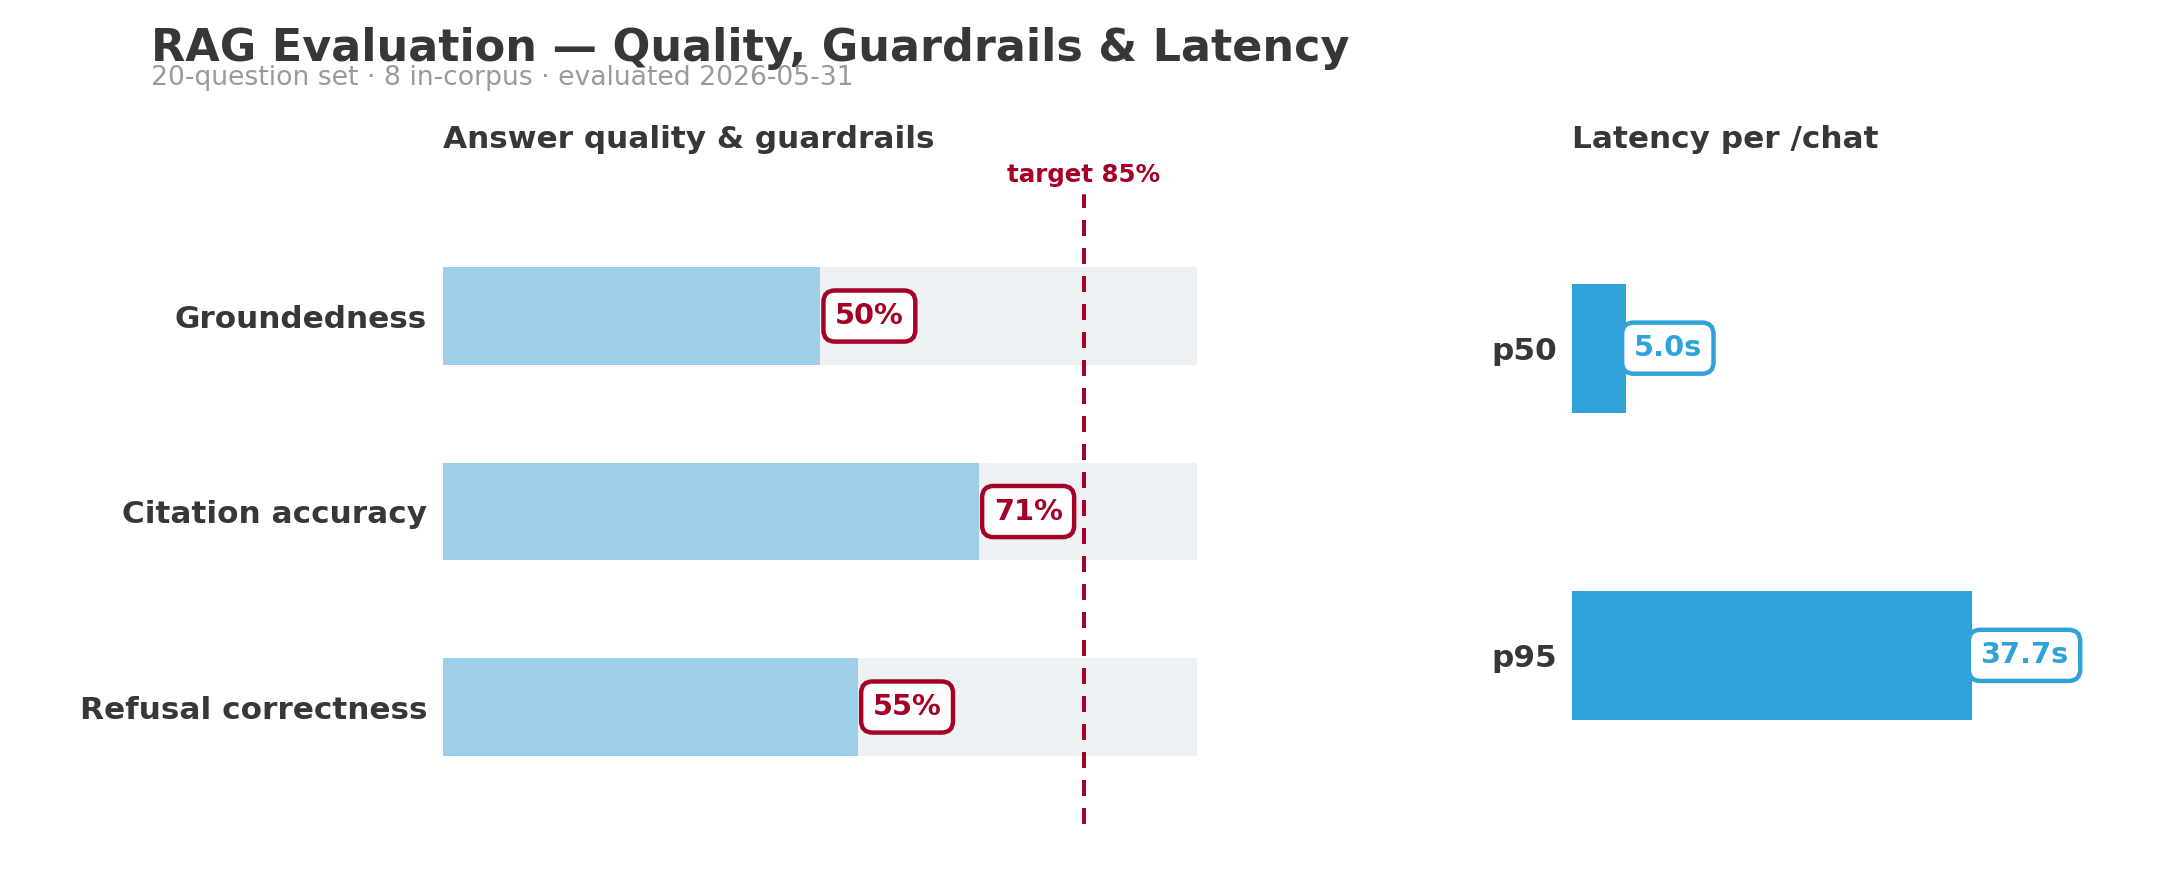
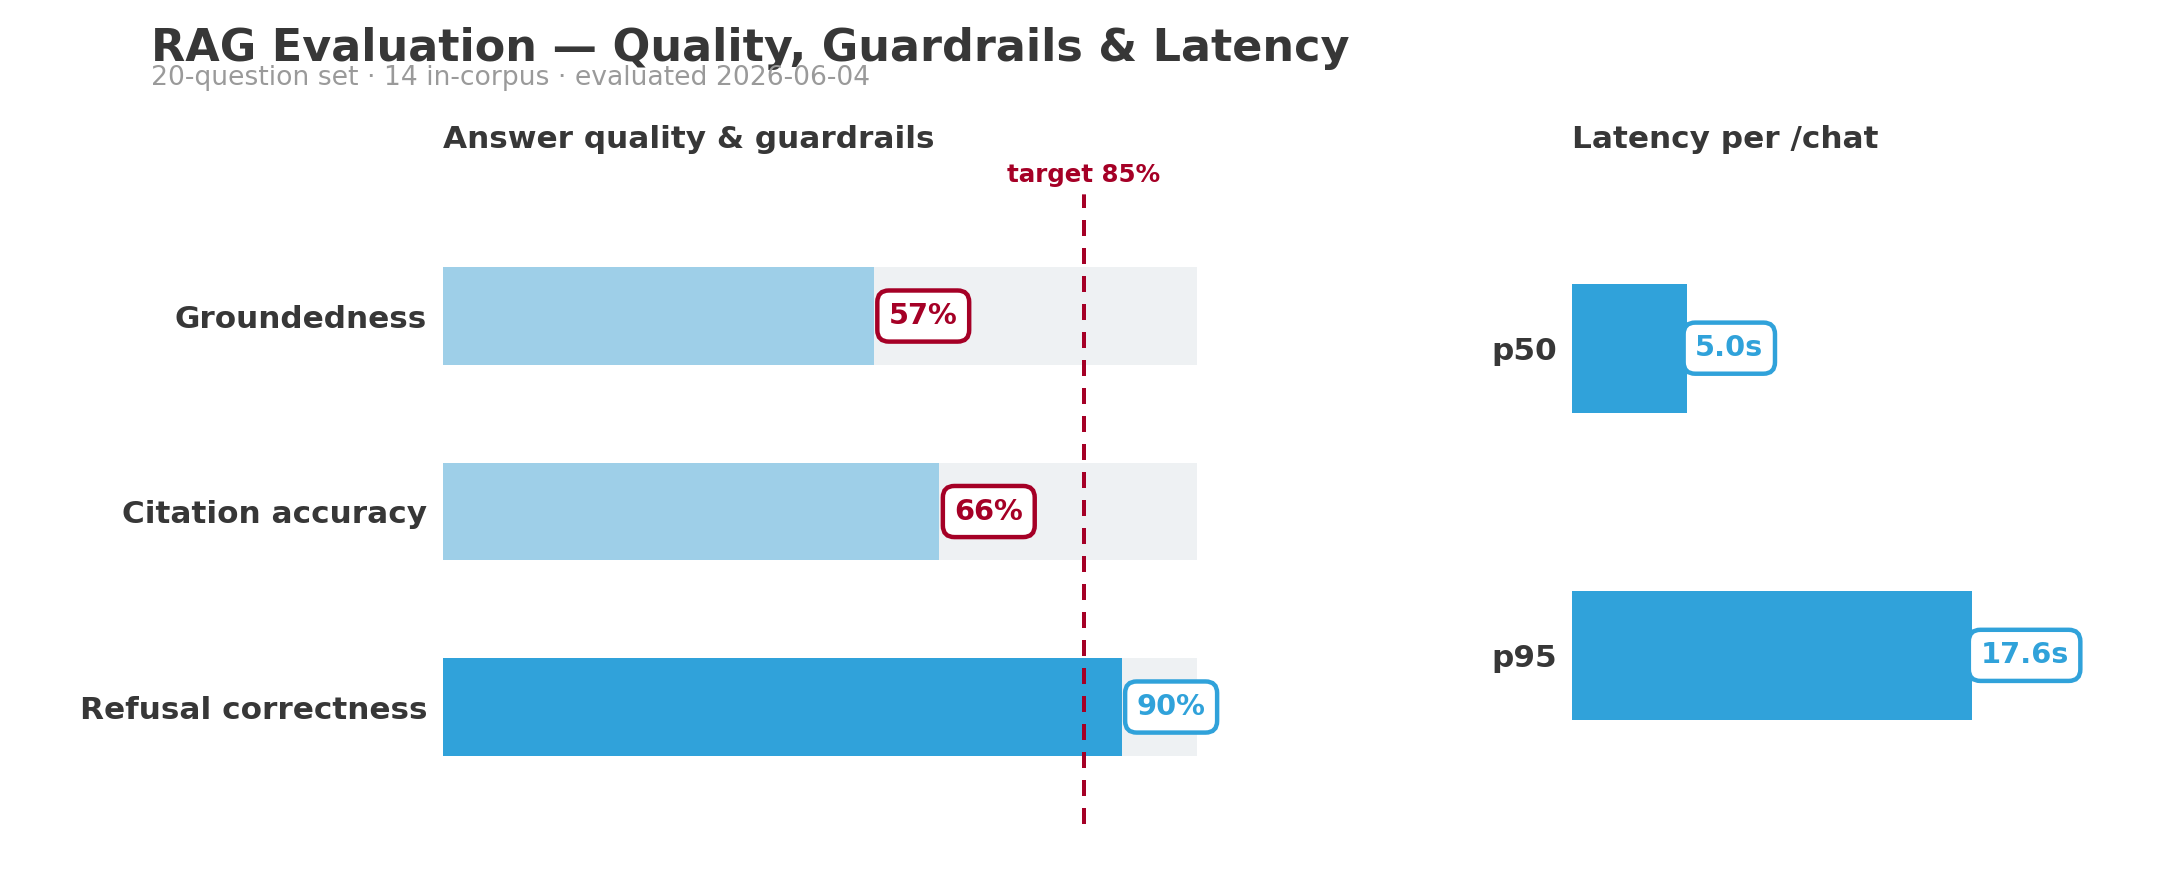
Re-run eval with hardened harness: complete 20/20, refusal 90%
Add retries + backoff on the /chat call and raise inter-question pacing to
8s, fixing the 7/20 dropped questions in the prior run (Render cold starts /
upstream 502s under NVIDIA rate limiting). Complete run results:

  Groundedness        50% → 57.1% (8/14)
  Citation accuracy   71% → 65.8%
  Refusal correctness 55% → 90.0% (18/20)
  Latency p50/p95     5.0s / 37.7s → 5.0s / 17.6s

Refusal jump is mostly the measurement artifact resolving (nulls no longer
scored as misses); the 2 remaining false refusals are the docket-number and
one-year-bar queries. Regenerated modern chart reflects new numbers.

diff --git a/evaluation/run_eval.py b/evaluation/run_eval.py
@@ -125,14 +125,34 @@ def judge_citation_supports(answer: str, snippet: str) -> bool:
     return _judge_call(prompt, max_tokens=10).upper().startswith("YES")
 
 
-def call_chat(base_url: str, question: str, k: int = 5, timeout: int = 90) -> dict:
-    resp = requests.post(
-        f"{base_url}/chat",
-        json={"question": question, "k": k},
-        timeout=timeout,
-    )
-    resp.raise_for_status()
-    return resp.json()
+def call_chat(base_url: str, question: str, k: int = 5, timeout: int = 120) -> dict:
+    """POST /chat with retries on transient failures (cold start, 502, timeout).
+
+    The prior eval run lost 7/20 questions to one-shot /chat failures — Render
+    free-tier cold starts and upstream 502s when NVIDIA was rate-limiting
+    generation. Retrying with backoff makes a complete 20/20 run reliable.
+    """
+    delays = [5, 12, 30, 60]
+    last_err: Exception | None = None
+    for attempt, delay in enumerate(delays + [None]):
+        try:
+            resp = requests.post(
+                f"{base_url}/chat",
+                json={"question": question, "k": k},
+                timeout=timeout,
+            )
+            # 5xx are transient on free tier (cold start / upstream queue) — retry
+            if resp.status_code >= 500:
+                raise requests.HTTPError(f"{resp.status_code} {resp.reason}")
+            resp.raise_for_status()
+            return resp.json()
+        except (requests.RequestException, ValueError) as e:
+            last_err = e
+            if delay is None:
+                raise
+            print(f"  …/chat attempt {attempt + 1} failed ({e}); retrying in {delay}s")
+            time.sleep(delay)
+    raise last_err  # unreachable
 
 
 def warm_service(base_url: str) -> None:
@@ -158,7 +178,7 @@ def run(base_url: str) -> dict:
 
     for i, q in enumerate(questions):
         if i > 0:
-            time.sleep(4)  # be polite to NVIDIA free-tier rate limit
+            time.sleep(8)  # be polite to NVIDIA free-tier rate limit (generation + judge)
         print(f"[{q['id']}] {q['question']}")
         t0 = time.perf_counter()
         try:
